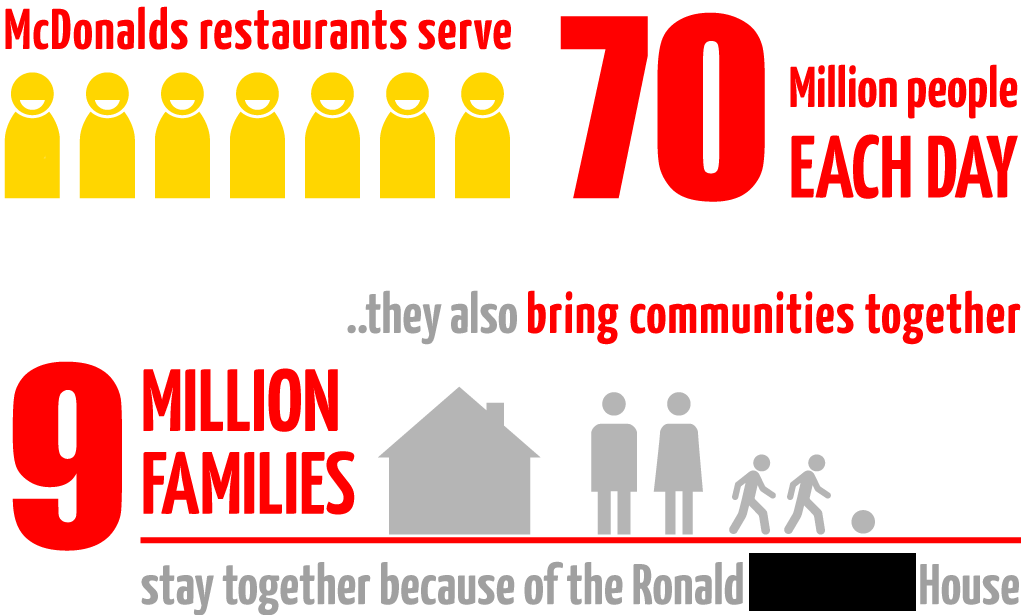
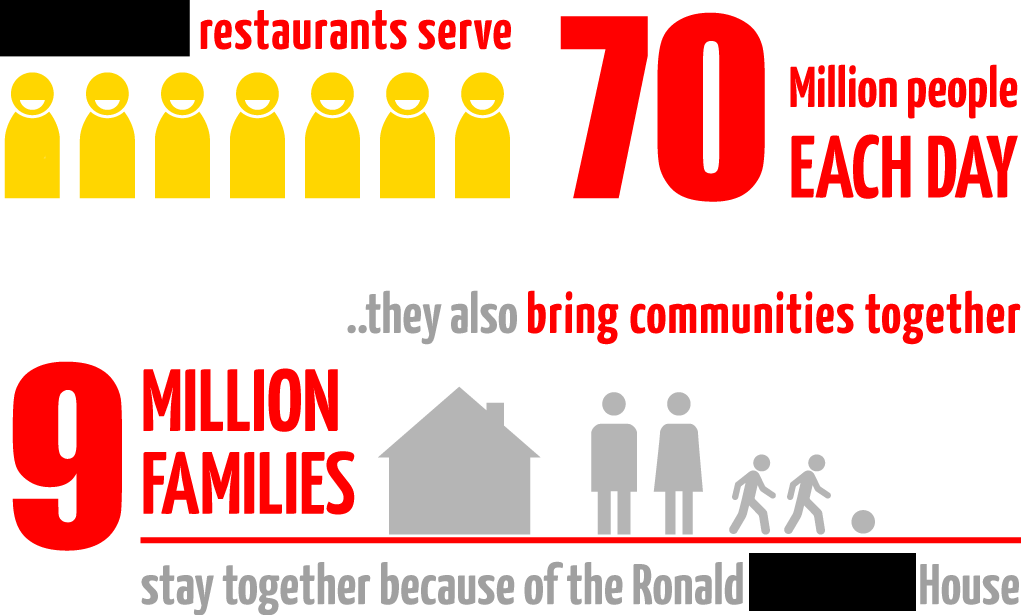
copy right

Changed region(s): [[0.0, 0.0, 0.1875, 0.0927]]

diff --git a/public/js/index.js b/public/js/index.js
@@ -1,6 +1,37 @@
+$( ".copyright-infringed" ).click( function() {
+    window.location.href = "/copyright";
+});
+
 var PAGE = "";
+// copy right infringed!
+if( !/Android|webOS|iPhone|iPad|iPod|BlackBerry|IEMobile|Opera Mini/i.test(navigator.userAgent) ) {
+    $( ".hoverable" ).on( 'mouseenter mouseleave', function() {
+        $( this ).toggleClass( 'hover' );
+    });
+}
+$(document).on('mousemove', function(e){
+    var cursor = $( ".cursor" );
+    cursor.css({
+        left:  e.pageX + 5,
+        top:   e.pageY + 5,
+        color: "white"
+    });
+
+    if( $( ".copyright-infringed" ).hasClass( "hover" ) ) {
+        cursor.css( "font-size", "3.0em" );
+        cursor.show().html( "?" ).css({
+            width: "30px",
+            height: "80px",
+            color: "red",
+            top: e.pageY - 60,
+        }); 
+    } else {
+        cursor.hide();
+    }
+});
 
 $( document ).ready( function() {
+
     var nav = $( "nav" ),
         navPos = nav.position().top;
 

diff --git a/mcmass.js b/mcmass.js
@@ -31,6 +31,7 @@ app.get('/', routes.index);
 app.get('/faq', routes.faq);
 app.get('/shop', routes.shop);
 app.get('/subscribe', routes.email);
+app.get('/copyright', routes.copyright);
 
 http.createServer(app).listen(app.get('port'), function(){
   console.log('Express server listening on port ' + app.get('port'));

diff --git a/public/css/style.css b/public/css/style.css
@@ -1,6 +1,14 @@
+.cursor {
+    display: none;
+    position: absolute;
+    z-index: 5000;
+}
 .copyright-infringed.text {
     color:black;
     background-color: black;
+}
+.copyright-infringed {
+    cursor: pointer;
 }
 
 body {

diff --git a/routes/index.js b/routes/index.js
@@ -34,4 +34,8 @@ exports.shop = function(req, res){
     res.render('shop');
 };
 
+exports.copyright = function(req, res){
+    res.render('copyright');
+};
+
 
